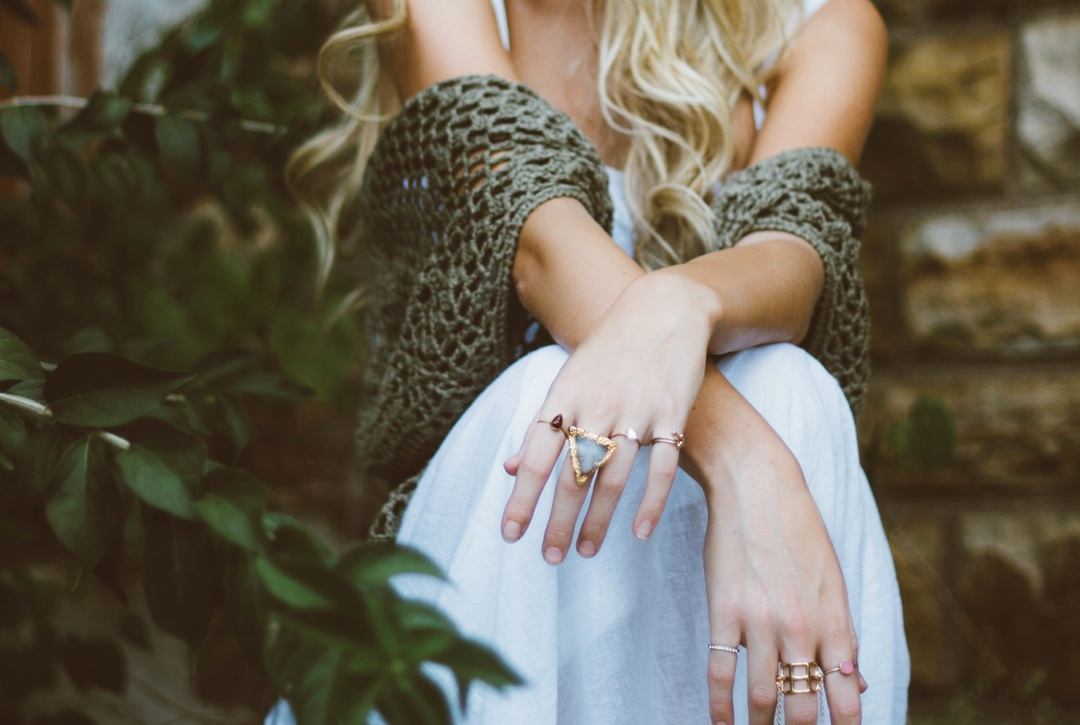
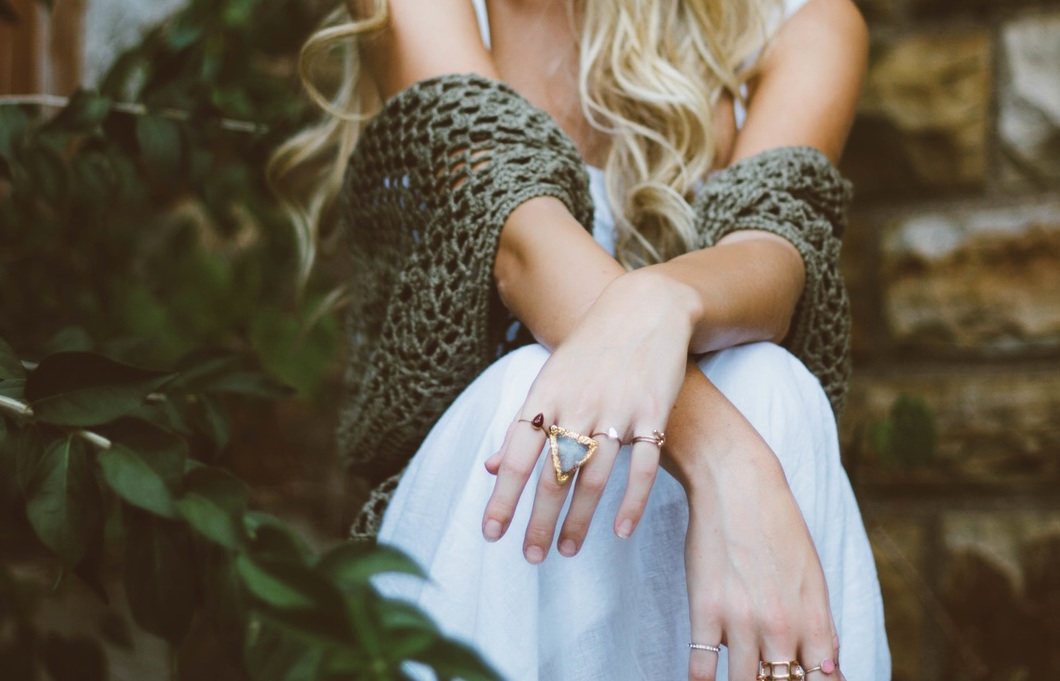
playing with image sizing

diff --git a/startbootstrap-agency-gh-pages/index.html b/startbootstrap-agency-gh-pages/index.html
@@ -24,12 +24,6 @@
     <!-- Theme CSS -->
     <link href="css/agency.css" rel="stylesheet">
 
-    <!-- HTML5 Shim and Respond.js IE8 support of HTML5 elements and media queries -->
-    <!-- WARNING: Respond.js doesn't work if you view the page via file:// -->
-    <!--[if lt IE 9]>
-        <script src="https://oss.maxcdn.com/libs/html5shiv/3.7.0/html5shiv.js"></script>
-        <script src="https://oss.maxcdn.com/libs/respond.js/1.4.2/respond.min.js"></script>
-    <![endif]-->
 
 </head>
 
@@ -99,7 +93,7 @@
                                 <i class="fa fa-plus fa-3x"></i>
                             </div>
                         </div>
-                        <img src="img/Daft.png" class="img-responsive" alt="">
+                        <img src="img/DF.jpg" class="img-responsive" alt="">
                     </a>
                     <div class="portfolio-caption">
                         <h4>Music History</h4>
@@ -114,7 +108,7 @@
                                 <i class="fa fa-plus fa-3x"></i>
                             </div>
                         </div>
-                        <img src="img/welcome.jpg" class="img-responsive" height="925px" alt="">
+                        <img src="img/welcome.jpg" class="img-responsive" alt="">
                     </a>
                     <div class="portfolio-caption">
                         <h4>Cheveux Pure</h4>
@@ -283,7 +277,7 @@
                             <div class="modal-body">
                                 <h2>Cheveux Pure</h2>
                                 <p class="item-intro text-muted">Lorem ipsum dolor sit amet consectetur.</p>
-                                <img class="img-responsive img-centered" src="img/portfolio/startup-framework-preview.png" alt="">
+                                <img class="img-responsive img-centered" src="img/portfolio/Cheveux-Pure-2.jpeg" alt="">
                                 <p><a href="http://designmodo.com/startup/?u=787">Startup Framework</a> is a website builder for professionals. Startup Framework contains components and complex blocks (PSD+HTML Bootstrap themes and templates) which can easily be integrated into almost any design. All of these components are made in the same style, and can easily be integrated into projects, allowing you to create hundreds of solutions for your future projects.</p>
                                 <p>You can preview Startup Framework <a href="http://designmodo.com/startup/?u=787">here</a>.</p>
                                 <button type="button" class="btn btn-primary" data-dismiss="modal"><i class="fa fa-times"></i> Close Project</button>

diff --git a/startbootstrap-agency-gh-pages/css/agency.css b/startbootstrap-agency-gh-pages/css/agency.css
@@ -359,7 +359,7 @@ section h3.section-subheading {
   background: rgb(51, 122, 183);
   position: absolute;
   width: 100%;
-  height: 100%;
+  height: auto;
   opacity: 0;
   transition: all ease 0.5s;
   -webkit-transition: all ease 0.5s;
